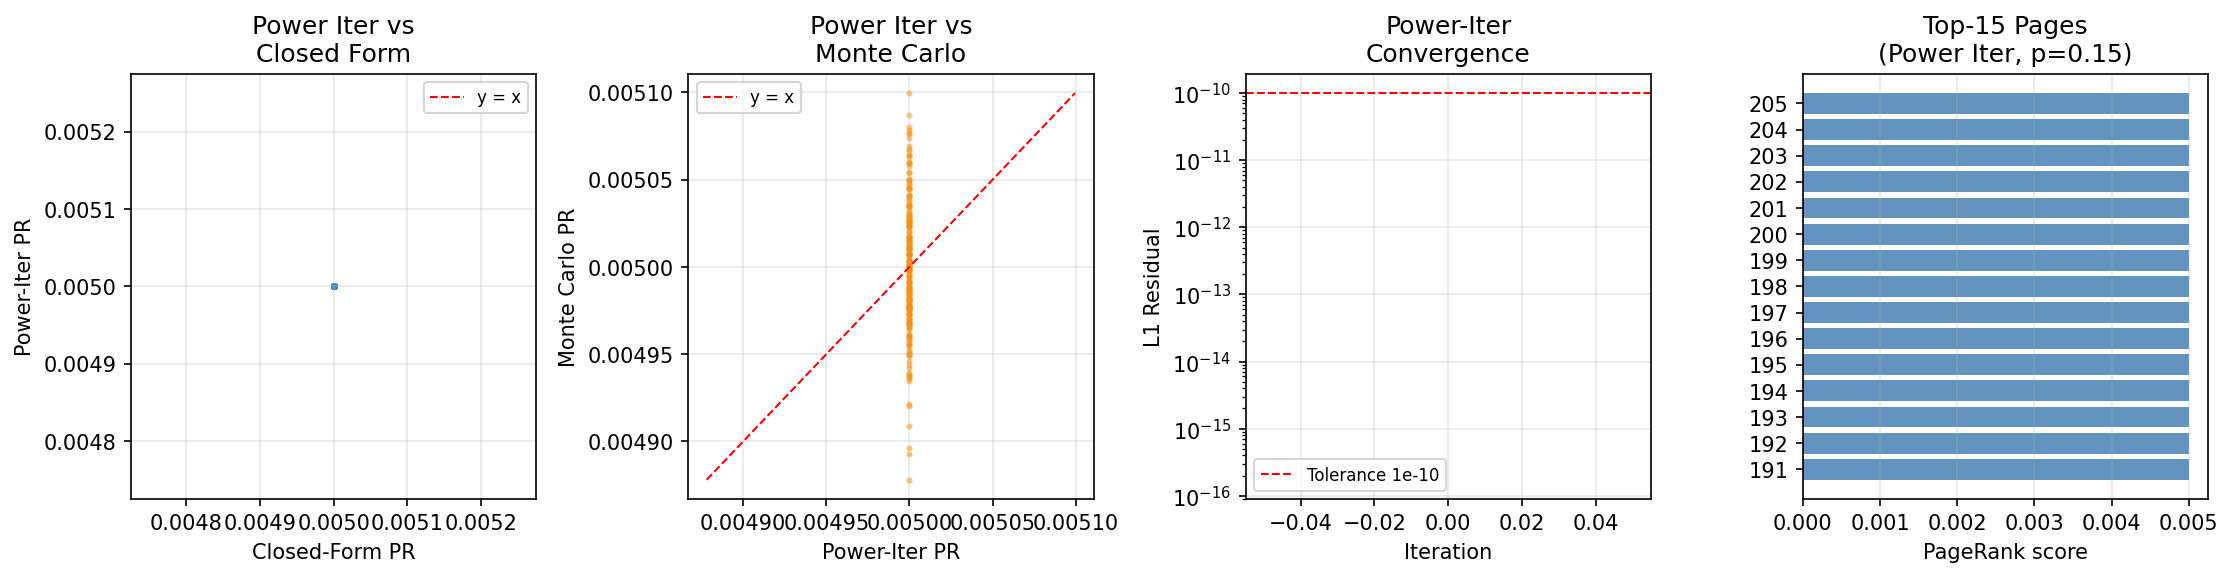
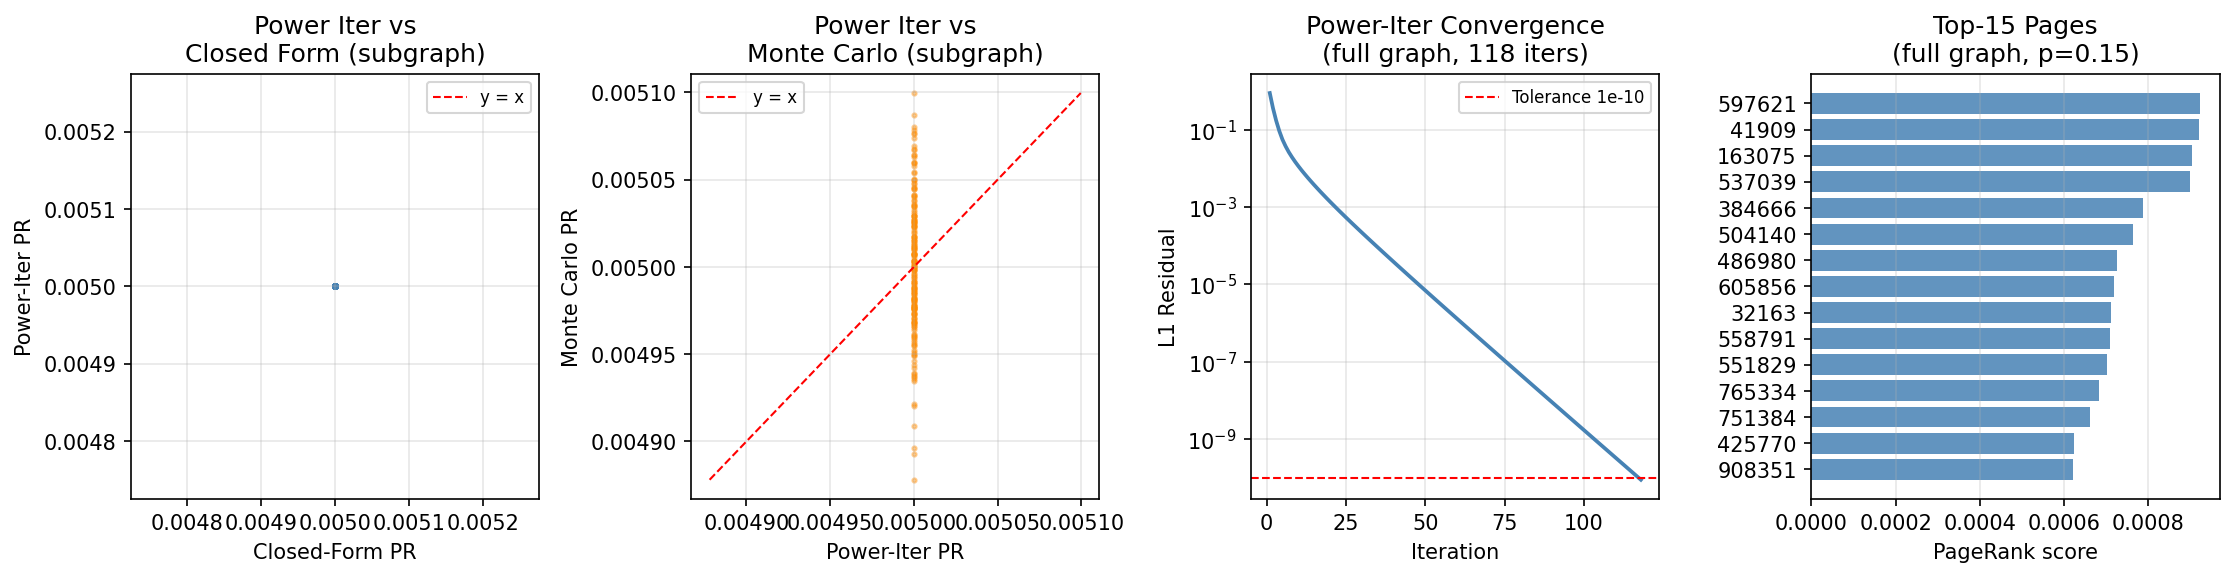
update code

diff --git a/ass2/assignment2.py b/ass2/assignment2.py
@@ -350,18 +350,28 @@ def compare_pair(r_a, r_b, label_a='A', label_b='B'):
 
 
 def plot_method_comparison(r_pi, r_cf, r_mc, nodes, history_pi,
-                           output='method_comparison.png'):
+                           output='method_comparison.png',
+                           r_pi_full=None, nodes_full=None):
+    """
+    Four-panel comparison figure.
+    r_pi/r_cf/r_mc/nodes : 200-node subgraph vectors (scatter panels 1-2)
+    history_pi           : convergence history from FULL graph (panel 3)
+    r_pi_full/nodes_full : full graph data for top-15 panel (panel 4)
+    """
+    r_top = r_pi_full if r_pi_full is not None else r_pi
+    n_top = nodes_full if nodes_full is not None else nodes
+
     fig = plt.figure(figsize=(15, 4))
     gs  = gridspec.GridSpec(1, 4, figure=fig)
 
-    # Panel 1: Power iter vs closed form (should lie on y=x)
+    # Panel 1: Power iter vs closed form — should lie on y=x
     ax1 = fig.add_subplot(gs[0])
     ax1.scatter(r_cf, r_pi, s=4, alpha=0.4, color='steelblue')
     lims = [min(r_cf.min(), r_pi.min()), max(r_cf.max(), r_pi.max())]
     ax1.plot(lims, lims, 'r--', linewidth=1, label='y = x')
     ax1.set_xlabel('Closed-Form PR')
     ax1.set_ylabel('Power-Iter PR')
-    ax1.set_title('Power Iter vs\nClosed Form')
+    ax1.set_title('Power Iter vs\nClosed Form (subgraph)')
     ax1.legend(fontsize=8)
     ax1.grid(True, alpha=0.3)
 
@@ -372,35 +382,37 @@ def plot_method_comparison(r_pi, r_cf, r_mc, nodes, history_pi,
     ax2.plot(lims, lims, 'r--', linewidth=1, label='y = x')
     ax2.set_xlabel('Power-Iter PR')
     ax2.set_ylabel('Monte Carlo PR')
-    ax2.set_title('Power Iter vs\nMonte Carlo')
+    ax2.set_title('Power Iter vs\nMonte Carlo (subgraph)')
     ax2.legend(fontsize=8)
     ax2.grid(True, alpha=0.3)
 
-    # Panel 3: Convergence trace
+    # Panel 3: Convergence trace — use full graph history
     ax3 = fig.add_subplot(gs[2])
-    ax3.semilogy(history_pi, color='steelblue', linewidth=1.8)
+    ax3.semilogy(range(1, len(history_pi) + 1), history_pi,
+                 color='steelblue', linewidth=1.8)
     ax3.axhline(1e-10, color='red', linestyle='--',
                 linewidth=1, label='Tolerance 1e-10')
     ax3.set_xlabel('Iteration')
     ax3.set_ylabel('L1 Residual')
-    ax3.set_title('Power-Iter\nConvergence')
+    ax3.set_title(f'Power-Iter Convergence\n(full graph, {len(history_pi)} iters)')
     ax3.legend(fontsize=8)
     ax3.grid(True, alpha=0.3)
 
-    # Panel 4: Top-15 pages
+    # Panel 4: Top-15 pages — use full graph
     ax4 = fig.add_subplot(gs[3])
-    top15     = np.argsort(r_pi)[::-1][:15]
-    nd_labels = [str(nodes[i]) for i in top15]
-    ax4.barh(nd_labels[::-1], r_pi[top15][::-1],
+    top15     = np.argsort(r_top)[::-1][:15]
+    nd_labels = [str(n_top[i]) for i in top15]
+    ax4.barh(nd_labels[::-1], r_top[top15][::-1],
              color='steelblue', alpha=0.85)
     ax4.set_xlabel('PageRank score')
-    ax4.set_title('Top-15 Pages\n(Power Iter, p=0.15)')
+    ax4.set_title('Top-15 Pages\n(full graph, p=0.15)')
     ax4.grid(True, axis='x', alpha=0.3)
 
     plt.tight_layout()
     plt.savefig(output, dpi=150, bbox_inches='tight')
     plt.close()
     print(f'  Saved: {output}')
+
 
 
 # ─────────────────────────────────────────────────────────────
@@ -851,7 +863,9 @@ if __name__ == '__main__':
     compare_pair(r_pi_sub, r_mc_sub, 'PowerIter',  'MonteCarlo')
     compare_pair(r_cf_sub, r_mc_sub, 'ClosedForm', 'MonteCarlo')
     plot_method_comparison(r_pi_sub, r_cf_sub, r_mc_sub,
-                           sub_nodes, hist_sub, 'method_comparison.png')
+                           sub_nodes, hist_pi,
+                           'method_comparison.png',
+                           r_pi_full=r_pi, nodes_full=nodes)
 
     # [8] Top-20 pages on full graph
     print(f'\n[8] Top-20 pages (full {N:,}-node graph, p={P}):')
